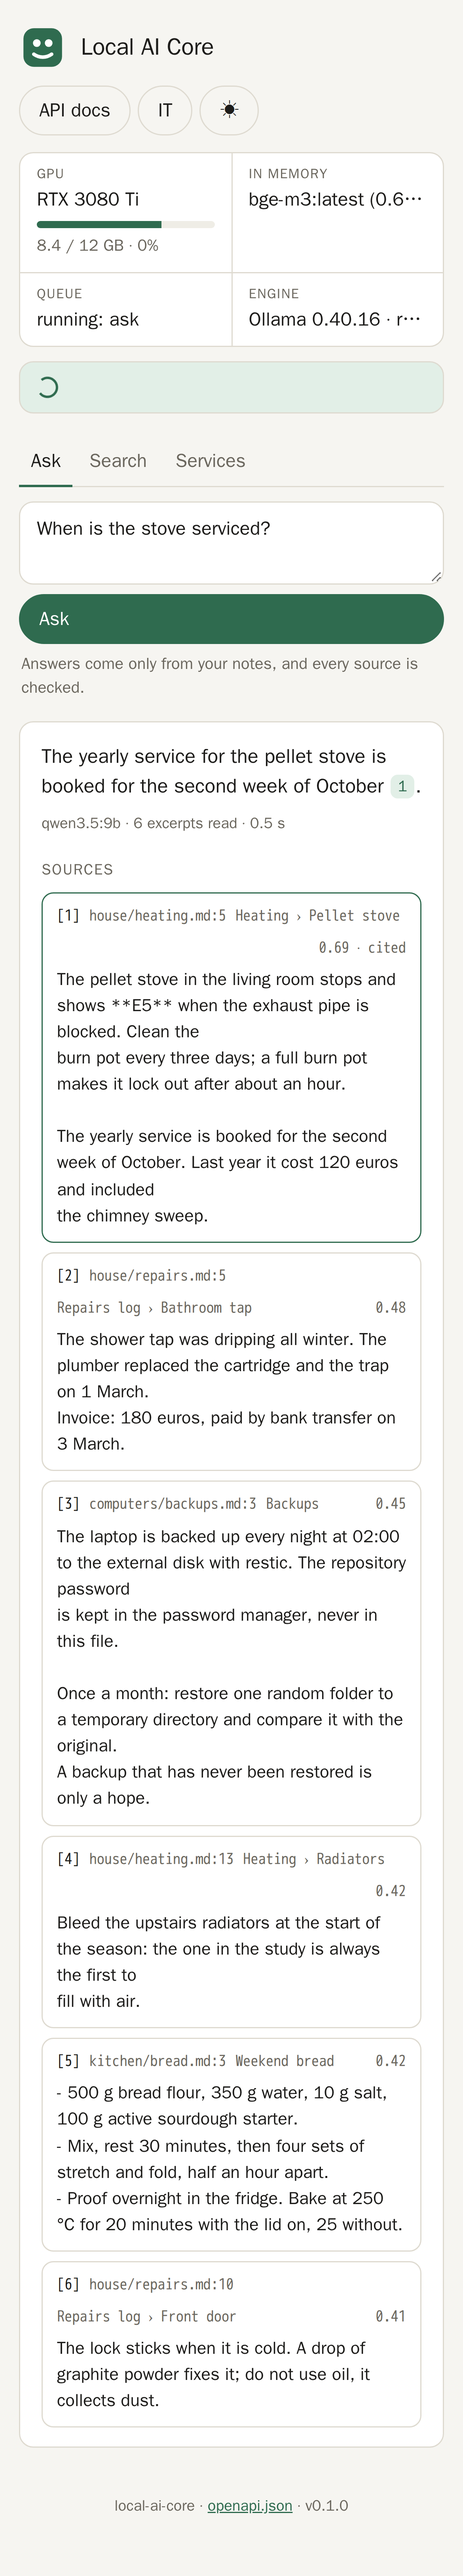
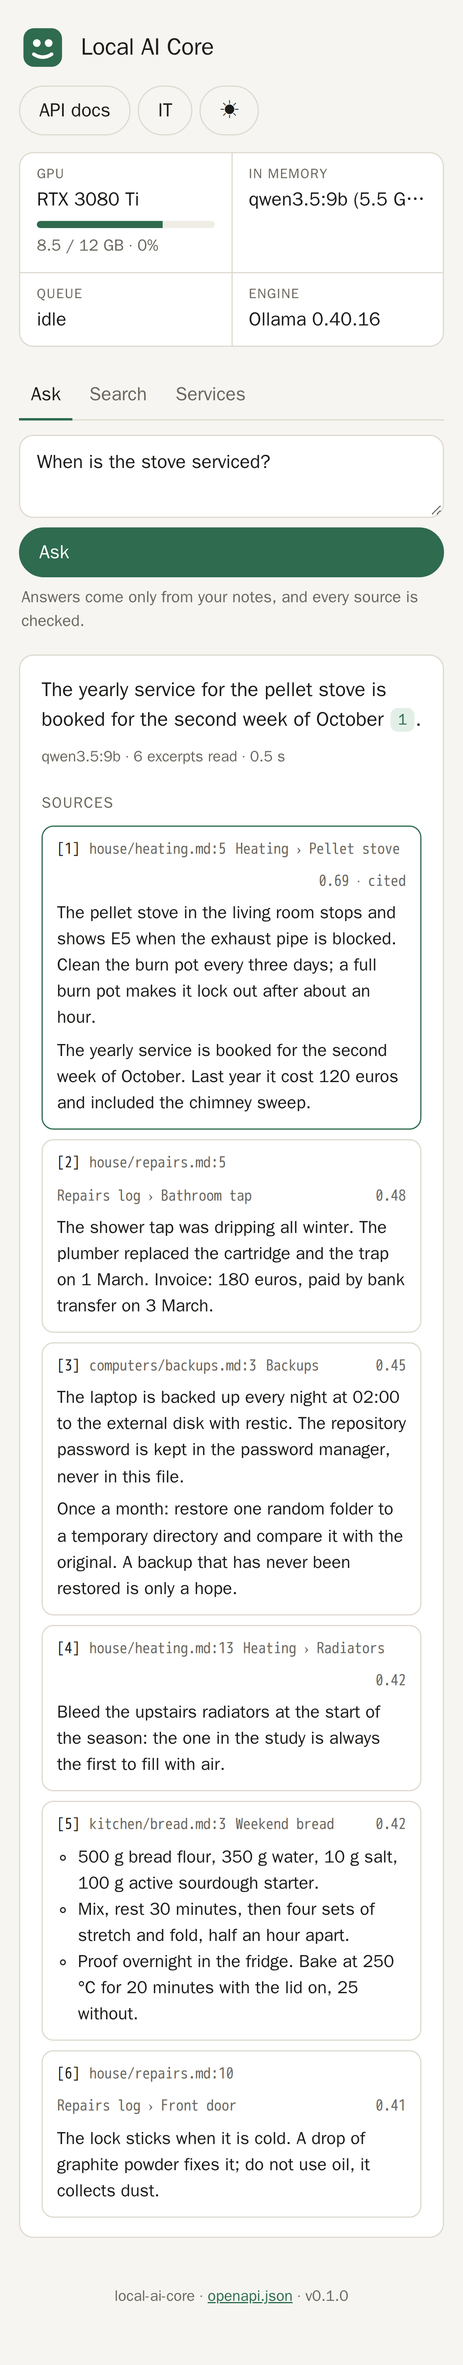
Whole-model download progress, readable excerpts, verified quick start
- startup progress sums Ollama's per-layer updates, so the banner tracks
  the whole model; covered by a test and a new mutation
- the startup banner really hides when ready; excerpts join hard-wrapped
  lines and render lists and bold
- screenshots warm the model up first and wait for an idle status bar
- STATO.md: what was tested from a clean clone, in family mode, and on GPU

Claude-Session: https://claude.ai/code/session_01GiECdByJzjzej9vs7GMxRp

diff --git a/gateway/localai_gateway/clients.py b/gateway/localai_gateway/clients.py
@@ -41,7 +41,9 @@ class OllamaClient:
         return out
 
     async def pull(self, model, on_progress):
-        """Downloads a model; on_progress(status, completed, total) is awaited for each update."""
+        """Downloads a model. Ollama reports progress per layer: on_progress(status, completed, total) gets
+        the sum over the layers seen so far, so it describes the whole model."""
+        layers = {}
         async with self._client(httpx.Timeout(None, connect=10)) as c:
             async with c.stream("POST", "/api/pull", json={"model": model, "stream": True}) as r:
                 if r.status_code != 200:
@@ -52,7 +54,12 @@ class OllamaClient:
                     d = json.loads(line)
                     if "error" in d:
                         raise JobFailed(f"pull of {model} failed: {d['error']}")
-                    await on_progress(d.get("status", ""), d.get("completed"), d.get("total"))
+                    if d.get("digest") and d.get("total"):
+                        layers[d["digest"]] = (d.get("completed") or 0, d["total"])
+                    status = "downloading" if d.get("digest") else d.get("status", "")
+                    done = sum(c for c, _ in layers.values())
+                    total = sum(t for _, t in layers.values())
+                    await on_progress(status, done or None, total or None)
 
 
 class Worker:

diff --git a/gateway/localai_gateway/main.py b/gateway/localai_gateway/main.py
@@ -5,6 +5,7 @@ runs as jobs (202 + job id; follow it with GET /v1/jobs/{id} or its event stream
 a single queue. The workers and Ollama sit behind it on the compose network.
 """
 import asyncio
+import collections
 import contextlib
 import hmac
 import json
@@ -124,6 +125,7 @@ def create_app(settings=None, ollama_transport=None, worker_transports=None):
     app.state.ollama = OllamaClient(settings.ollama_host, transport=ollama_transport)
     app.state.workers = {n: Worker(n, u, transport=worker_transports.get(n)) for n, u in settings.workers.items()}
     app.state.boot = {"phase": "starting", "detail": "", "pull": None, "error": None}
+    app.state.pull_log = collections.deque(maxlen=50)  # last progress updates, for tests and debugging
     app.state.tests = load_tests(settings)
     app.add_middleware(BodyLimit, limit_bytes=settings.max_upload_mb * 2**20)
 
@@ -414,6 +416,7 @@ async def bootstrap(app):
 
                     async def progress(status, completed, total, m=m):
                         boot["pull"] = {"model": m, "status": status, "completed": completed, "total": total}
+                        app.state.pull_log.append((status, completed, total))
                     await ol.pull(m, progress)
                 boot["pull"] = None
             if s.auto_index:

diff --git a/scripts/screenshots/shoot.py b/scripts/screenshots/shoot.py
@@ -30,7 +30,7 @@ def ask(p, question=QUESTION):
     p.fill("#ask-q", question)
     p.click("#ask-go")
     p.wait_for_function("document.querySelector('#ask-meta').textContent.length > 0", timeout=180_000)
-    p.wait_for_timeout(400)
+    p.wait_for_timeout(3500)  # one status refresh, so the queue shows idle again
 
 
 def shot(p, name, full=False):
@@ -46,6 +46,9 @@ with sync_playwright() as pw:
         p.wait_for_timeout(1500)
         shot(p, "startup")
         sys.exit(0)
+
+    # warm-up: the first answer also loads the model into VRAM, and its time would be misleading
+    ask(page(b, DESKTOP), "warm up")
 
     for theme in ("light", "dark"):
         p = page(b, DESKTOP, theme)
@@ -70,7 +73,7 @@ with sync_playwright() as pw:
     p.wait_for_selector(".card [data-test]")
     p.click(".card [data-test='search']")
     p.wait_for_function("document.querySelectorAll('.card .checks li').length >= 8", timeout=300_000)
-    p.wait_for_timeout(500)
+    p.wait_for_timeout(3500)
     shot(p, "services", full=True)
 
     p = b.new_context(viewport=DESKTOP, device_scale_factor=2).new_page()

diff --git a/tests/fake_ollama.py b/tests/fake_ollama.py
@@ -45,7 +45,10 @@ class FakeOllama:
             model = json.loads(request.content)["model"]
             self.pulled.append(model)
             self.models.append(model if ":" in model else model + ":latest")
-            lines = [{"status": "pulling", "completed": 50, "total": 100}, {"status": "success"}]
+            lines = [{"status": "pulling a", "digest": "sha256:a", "completed": 50, "total": 100},
+                     {"status": "pulling b", "digest": "sha256:b", "completed": 300, "total": 300},
+                     {"status": "pulling a", "digest": "sha256:a", "completed": 100, "total": 100},
+                     {"status": "success"}]
             return httpx.Response(200, content="".join(json.dumps(x) + "\n" for x in lines))
         if path == "/api/chat":
             self.chat_calls += 1

diff --git a/tests/test_gateway.py b/tests/test_gateway.py
@@ -43,6 +43,9 @@ def test_startup_pulls_missing_models_and_indexes(fake, search_worker, tmp_path)
     with TestClient(make(fake, search_worker, tmp_path)) as c:
         st = wait_ready(c)
         assert fake.pulled == ["bge-m3", "qwen3.5:9b"]
+        # progress covers the whole model, not the layer being downloaded
+        assert c.app.state.pull_log[-1] == ("success", 400, 400)
+        assert ("downloading", 350, 400) in c.app.state.pull_log
         assert st["ollama"]["reachable"] and st["ollama"]["loaded"][0]["name"] == "qwen3.5:9b"
         jobs = c.get("/v1/jobs").json()["jobs"]
         assert jobs[0]["kind"] == "index" and jobs[0]["status"] == "done"
